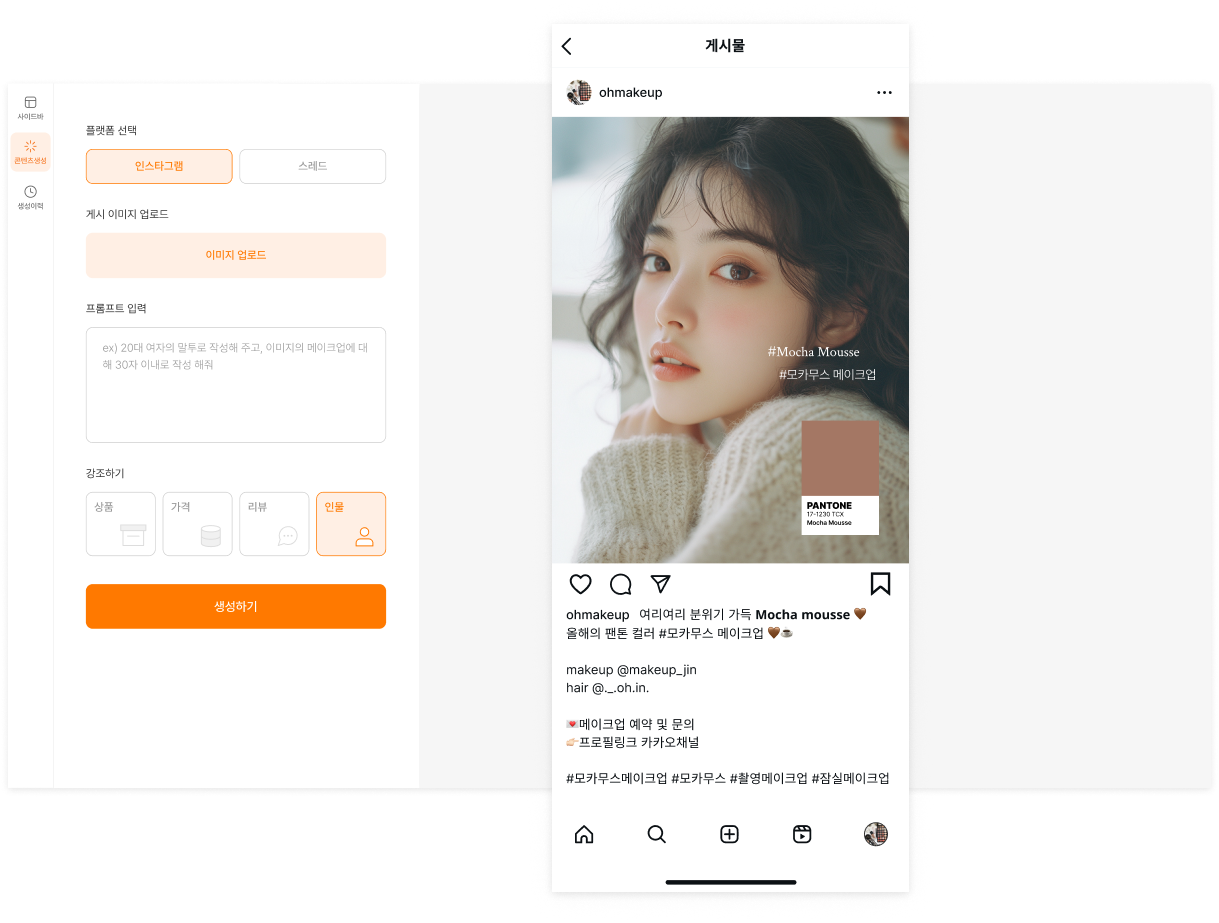
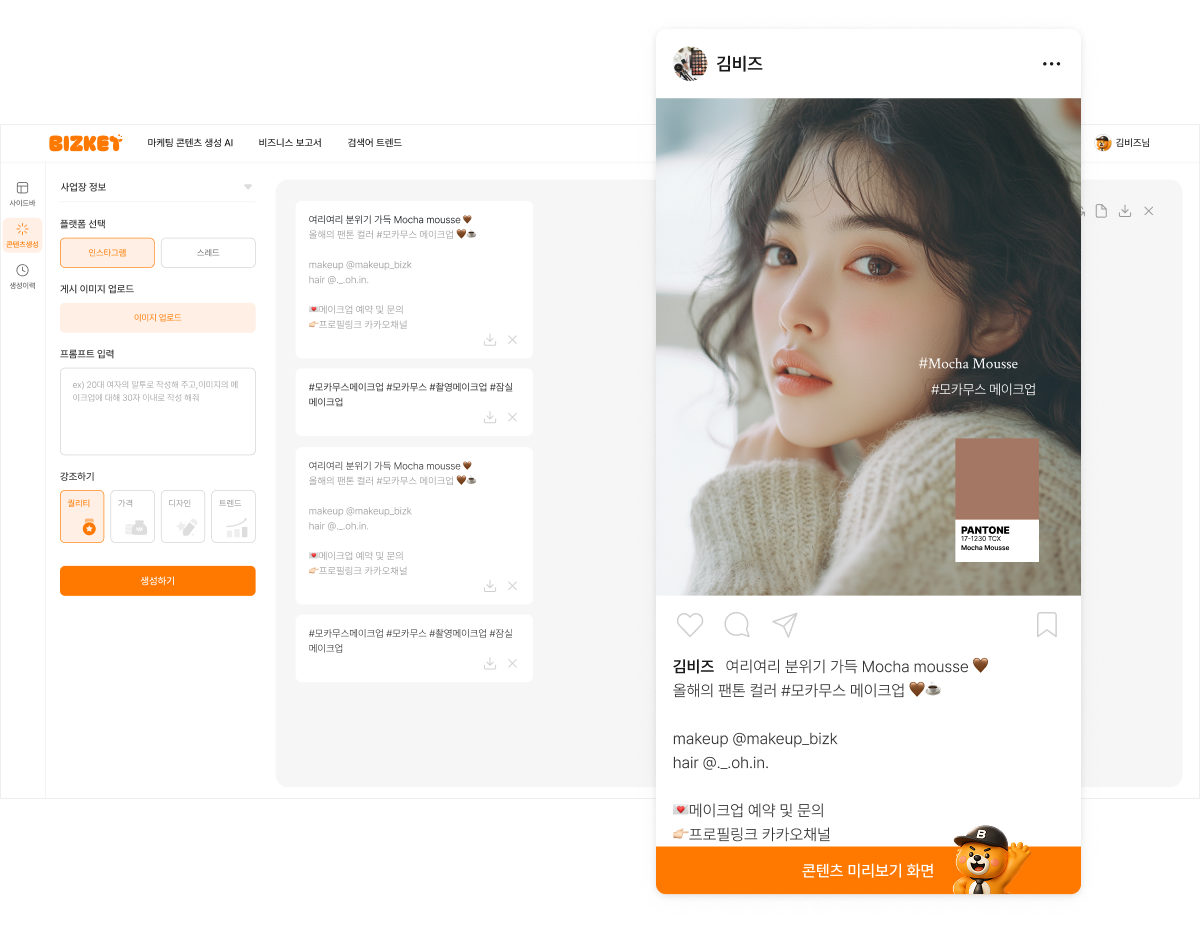
feat: 피드백 사항 수정

diff --git a/src/features/create-marketing-viewer/ui/Preview.tsx b/src/features/create-marketing-viewer/ui/Preview.tsx
@@ -13,6 +13,8 @@ import { Pagination } from 'swiper/modules';
 import 'swiper/css';
 import 'swiper/css/pagination';
 import ThreadIcons from '@/features/create-marketing-viewer/ui/ThreadIcons';
+import MemberOnlyModal from '@/shared/ui/modal/MemberOnlyModal';
+import { useAuthStore } from '@/features/auth/model/useAuthStore';
 
 interface PreviewProps {
   isHistory?: boolean;
@@ -23,12 +25,66 @@ export const Preview = ({ isHistory, data }: PreviewProps) => {
   const { isSuccess } = useMarketingLoadingStore();
   const { data: userData } = useMemberInfo();
 
-  console.log(userData);
+  const { token } = useAuthStore();
 
   return isSuccess || isHistory ? (
-    <div className="overflow-hidden rounded-10 preview">
+    <div className="relative overflow-hidden rounded-10 preview">
       <div className="w-[425px]  bg-white min-h-[600px] max-h-[820px] overflow-auto ">
-        {data?.platform === 'instagram' ? (
+        {!token ? (
+          <>
+            <Flex
+              justify="between"
+              align="center"
+              className="w-full px-16 py-17"
+            >
+              <Flex align="center" gap={8}>
+                <div className="relative overflow-hidden border-gray-300 rounded-full w-35 h-35">
+                  <Image
+                    style={{ objectFit: 'cover' }}
+                    fill
+                    src={'/images/shared/default-profile.png'}
+                    alt="유저 프로필 이미지1"
+                  />
+                </div>
+                <p className="body-lg-semibold text-font-50">김비즈</p>
+              </Flex>
+              <MenuIcon />
+            </Flex>
+            <div className="relative w-full h-[495px] bg-black/20"></div>
+            <Flex direction="col" gap={12} className="w-full px-16 py-12">
+              <Flex justify="between" className="w-full">
+                <Flex align="center" gap={13}>
+                  <WishIcon />
+                  <CommentIcon />
+                  <ShareIcon />
+                </Flex>
+                <SaveIcon />
+              </Flex>
+              <div>
+                <span className="mr-5 label-lg-semibold text-font-50">
+                  김비즈
+                </span>
+                <pre className="inline body-md-regular text-font-40">
+                  여리여리 분위기 가득 Mocha mousse 🤎
+                  <br />
+                  올해의 팬톤 컬러 #모카무스 메이크업 🤎☕
+                  <br />
+                  <br />
+                  makeup @makeup_jin hair @._.oh.in.
+                  <br />
+                  <br />
+                  💌메이크업 예약 및 문의 👉🏻프로필링크 카카오채널
+                  <br />
+                  #모카무스메이크업 #모카무스 #촬영메이크업 #잠실메이크업
+                </pre>
+                <p className="body-sm-regular text-font-50 mt-15">
+                  #김비즈 #마케팅팅
+                </p>
+              </div>
+            </Flex>
+            <MemberOnlyModal usePortal={false} />
+          </>
+        ) : data?.platform === 'instagram' ? (
           <>
             <Flex
               justify="between"
@@ -42,13 +98,13 @@ export const Preview = ({ isHistory, data }: PreviewProps) => {
                     fill
                     src={
                       userData?.profileImageUrl ||
-                      '/images/shared/default_profile.png'
+                      '/images/shared/default-profile.png'
                     }
-                    alt="유저 프로필 이미지"
+                    alt="유저 프로필 이미지1"
                   />
                 </div>
                 <p className="body-lg-semibold text-font-50">
-                  {userData?.instagramAccountId}
+                  {userData?.instagramAccountId || '김비즈'}
                 </p>
               </Flex>
               <MenuIcon />
@@ -87,7 +143,7 @@ export const Preview = ({ isHistory, data }: PreviewProps) => {
               <div>
                 <span className="mr-5 label-lg-semibold text-font-50">
                   {userData?.instagramAccountId}
-                </span>{' '}
+                </span>
                 <pre className="inline body-md-regular text-font-40">
                   {data?.generatedContent}
                 </pre>
@@ -97,7 +153,7 @@ export const Preview = ({ isHistory, data }: PreviewProps) => {
               </div>
             </Flex>
           </>
-        ) : (
+        ) : data?.platform === 'threads' ? (
           <>
             <Flex
               justify="between"
@@ -111,13 +167,13 @@ export const Preview = ({ isHistory, data }: PreviewProps) => {
                     fill
                     src={
                       userData?.profileImageUrl ||
-                      '/images/shared/default_profile.png'
+                      '/images/shared/default-profile.png'
                     }
                     alt="유저 프로필 이미지"
                   />
                 </div>
                 <p className="body-lg-semibold text-font-50">
-                  {userData?.instagramAccountId}
+                  {userData?.instagramAccountId || '김비즈'}
                 </p>
               </Flex>
               <MenuIcon />
@@ -156,7 +212,7 @@ export const Preview = ({ isHistory, data }: PreviewProps) => {
               <ThreadIcons />
             </Flex>
           </>
-        )}
+        ) : null}
       </div>
       <Flex
         justify="center"

diff --git a/src/features/create-marketing/ui/CreateHistory.tsx b/src/features/create-marketing/ui/CreateHistory.tsx
@@ -7,6 +7,7 @@ import { useDebounce } from '@/shared/hooks/useDebounce';
 import { useContentHistoryStore } from '@/shared/store/useContentHistoryStroe';
 import Input from '@/shared/ui/input/Input';
 import Flex from '@/shared/ui/layout/Flex';
+import Image from 'next/image';
 import { ChangeEvent, useEffect, useState } from 'react';
 
 const CreateHistory = () => {
@@ -55,11 +56,37 @@ const CreateHistory = () => {
           }
         }}
       >
-        <Flex direction="col" gap={24}>
-          {data?.pages.flatMap((page) =>
-            page.content.map((item) => (
-              <HistoryCard key={item.id} data={item} />
-            )),
+        <Flex direction="col" gap={24} className="w-full">
+          {data?.pages && data?.pages.length > 0 ? (
+            data?.pages.flatMap((page) =>
+              page.content.map((item) => (
+                <HistoryCard key={item.id} data={item} />
+              )),
+            )
+          ) : (
+            <Flex
+              direction="col"
+              gap={20}
+              align="center"
+              className="w-full py-100"
+            >
+              <Image
+                width={100}
+                height={110}
+                src={'/images/create-marketing/no-history.png'}
+                alt="생성이력x 이미지지"
+              />
+              <Flex direction="col" gap={2} align="center">
+                <p className="body-md-regular text-font-30">
+                  생성이력이 없습니다
+                </p>
+                <p className="text-center body-sm-regular text-font-20">
+                  콘텐츠 생성하기에서 간편하게
+                  <br />
+                  게시물을 생성해 보세요!
+                </p>
+              </Flex>
+            </Flex>
           )}
           {isFetchingNextPage && <div>로딩 중...</div>}
         </Flex>

diff --git a/src/shared/ui/modal/MemberOnlyModal.tsx b/src/shared/ui/modal/MemberOnlyModal.tsx
@@ -25,9 +25,11 @@ const MemberOnlyModal = ({ onClose, usePortal }: MemberOnlyModalProps) => {
         <Modal.Image src="/images/modal/lock.svg" alt="자물쇠 이미지" />
       </Modal.Body>
       <Modal.Footer>
-        <Modal.Button onClick={onClose} variant="cancel">
-          취소
-        </Modal.Button>
+        {onClose && (
+          <Modal.Button onClick={onClose} variant="cancel">
+            취소
+          </Modal.Button>
+        )}
         <Modal.Button onClick={() => router.push('/login')} variant="primary">
           로그인
         </Modal.Button>

diff --git a/src/features/create-marketing-viewer/ui/CreateLoading.tsx b/src/features/create-marketing-viewer/ui/CreateLoading.tsx
@@ -21,7 +21,7 @@ const CreateLoading = () => {
         <p className="body-md-regular text-font-20">곧 콘텐츠가 완성됩니다.</p>
         <Flex direction="col" align="center" gap={8}>
           <Image
-            src="/images/create-marketing/create-loading.png"
+            src="/images/create-marketing/create-loading.gif"
             width={155}
             height={142}
             alt="로딩 이미지"

diff --git a/src/shared/ui/modal/Modal.tsx b/src/shared/ui/modal/Modal.tsx
@@ -34,7 +34,8 @@ const Modal = ({
     <div
       className={clsx(
         layout,
-        'z-modal flex justify-center items-center bg-[rgba(0,0,0,0.6)]',
+        ' flex justify-center items-center bg-[rgba(0,0,0,0.6)]',
+        usePortal ? 'z-modal' : ' z-50',
       )}
     >
       <div

diff --git a/src/app/layout.tsx b/src/app/layout.tsx
@@ -30,7 +30,7 @@ export const metadata: Metadata = {
     siteName: 'BIZKET',
     images: [
       {
-        url: '/images/shared/thumbnail.png',
+        url: '/images/shared/open_graph.png',
         width: 1200,
         height: 630,
         alt: 'BIZKET 썸네일',

diff --git a/src/app/head.tsx b/src/app/head.tsx
@@ -1,0 +1,8 @@
+// app/head.tsx
+export default function Head() {
+  return (
+    <>
+      <link rel="icon" href="/favicon.ico" />
+    </>
+  );
+}
